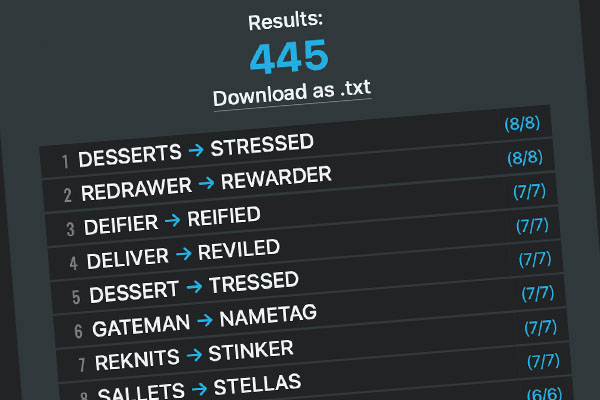
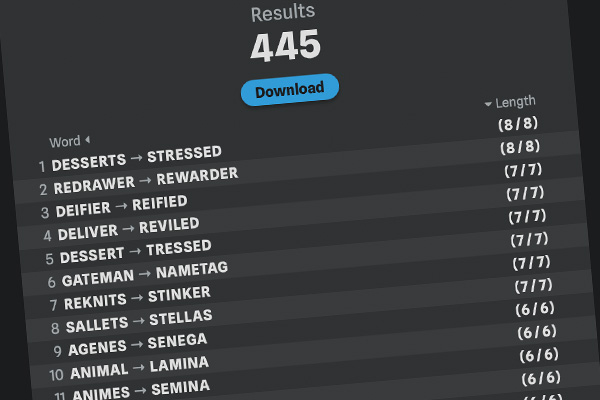
Update wordlisted for redesign

diff --git a/_projects/wordlisted.md b/_projects/wordlisted.md
@@ -1,9 +1,9 @@
 ---
 title: Wordlisted
-subtitle: Quick wordlist search tool
+subtitle: Find your words!
 permalink: https://aaronson.org/wordlisted/
 image: wordlisted.jpg
 position: 0
 ---
 
-Looking for anagrams of zebra? How about words you can write using only the letters ABCDEFG? Wordlisted is an online tool where you can upload your own wordlist (or just use the dictionary) and search it for words with interesting characteristics. Optimized for crossword creators, puzzle solvers, and word enthusiasts alike, Wordlisted has a wide variety of search options to suit all sorts of wordplay needs. I created the web app using JavaScript, React, and CSS. Try it out!
+Looking for anagrams of zebra? How about words you can write using only the letters ABCDEFG? Wordlisted is an online tool where you can upload your own wordlist (or just use the dictionary) and search it for words with interesting characteristics. Optimized for crossword creators, puzzle solvers, and word enthusiasts alike, Wordlisted has a wide variety of search options to suit all sorts of wordplay needs. I created the web app using JavaScript, React, and SCSS. Try it out!
